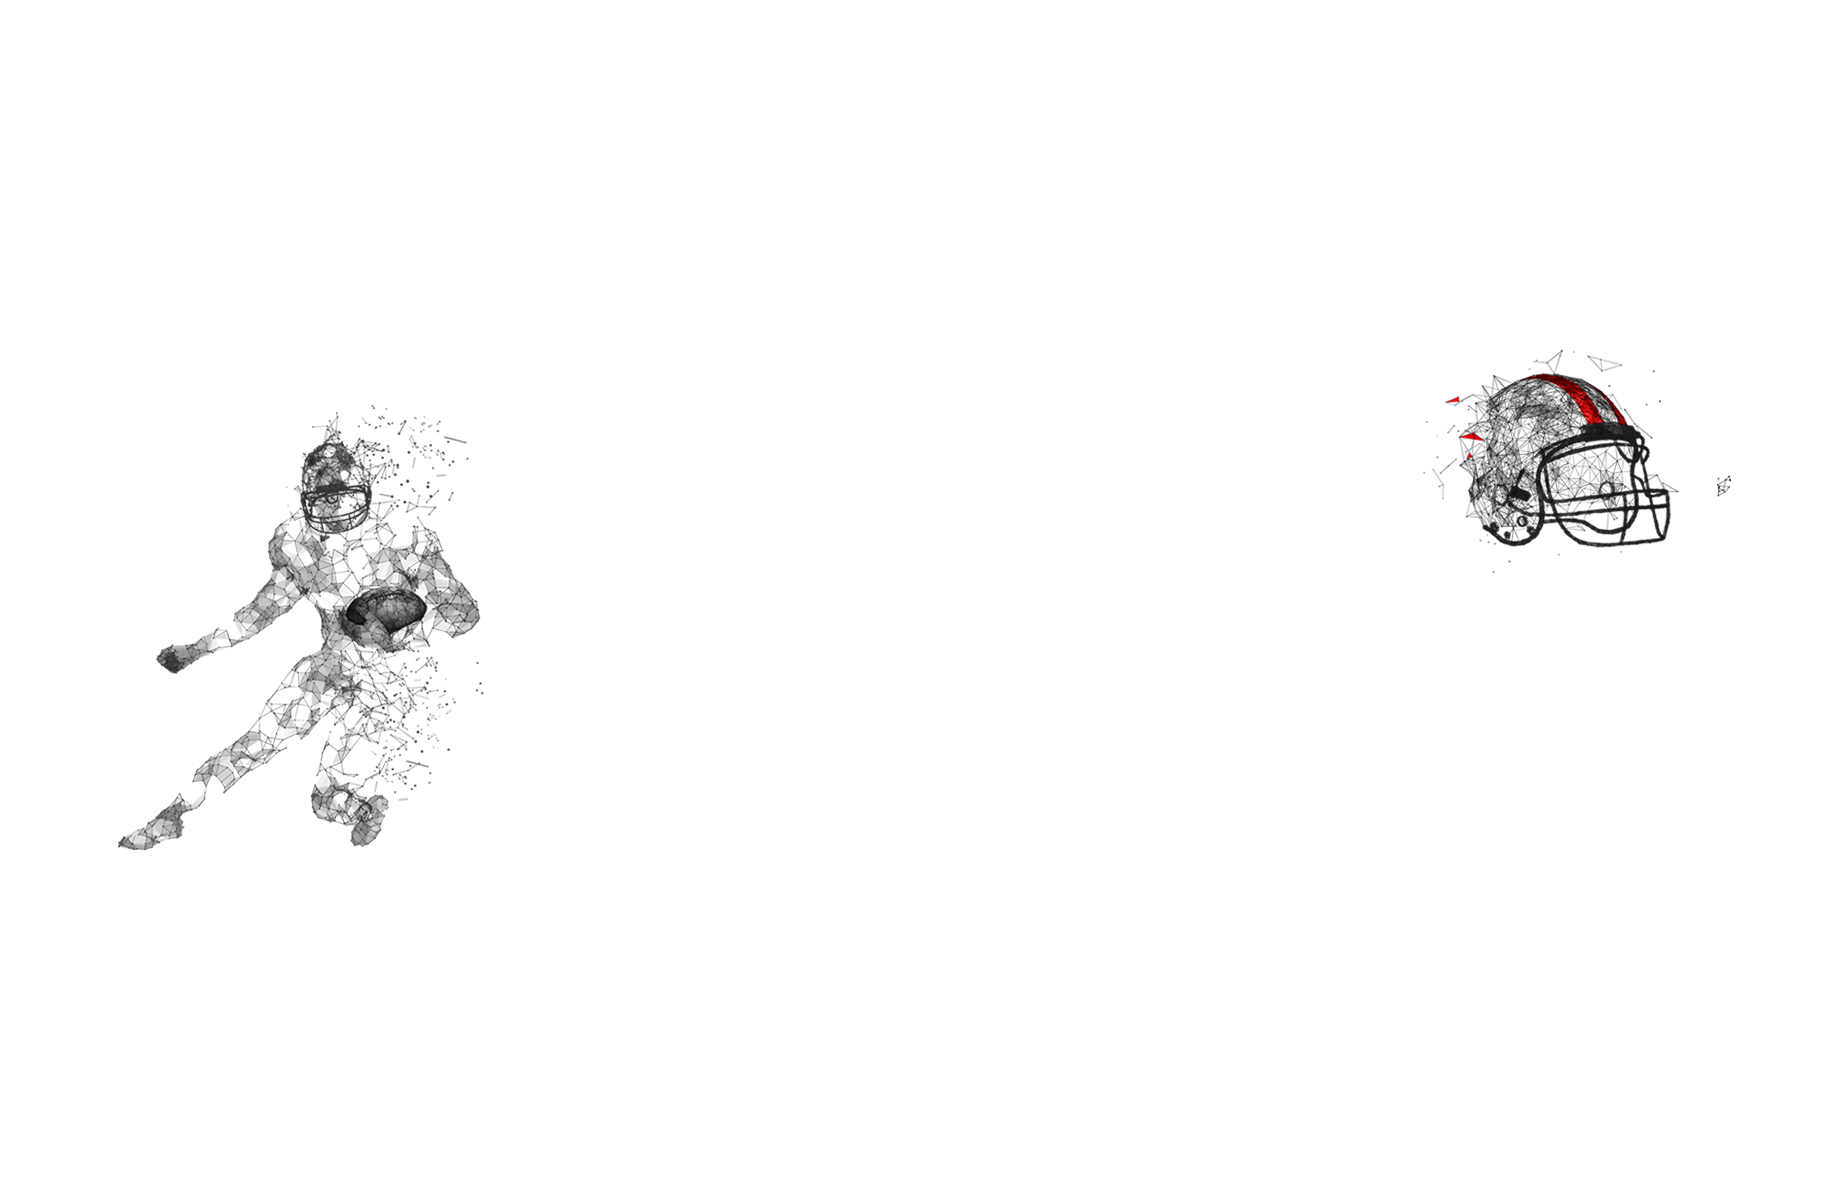
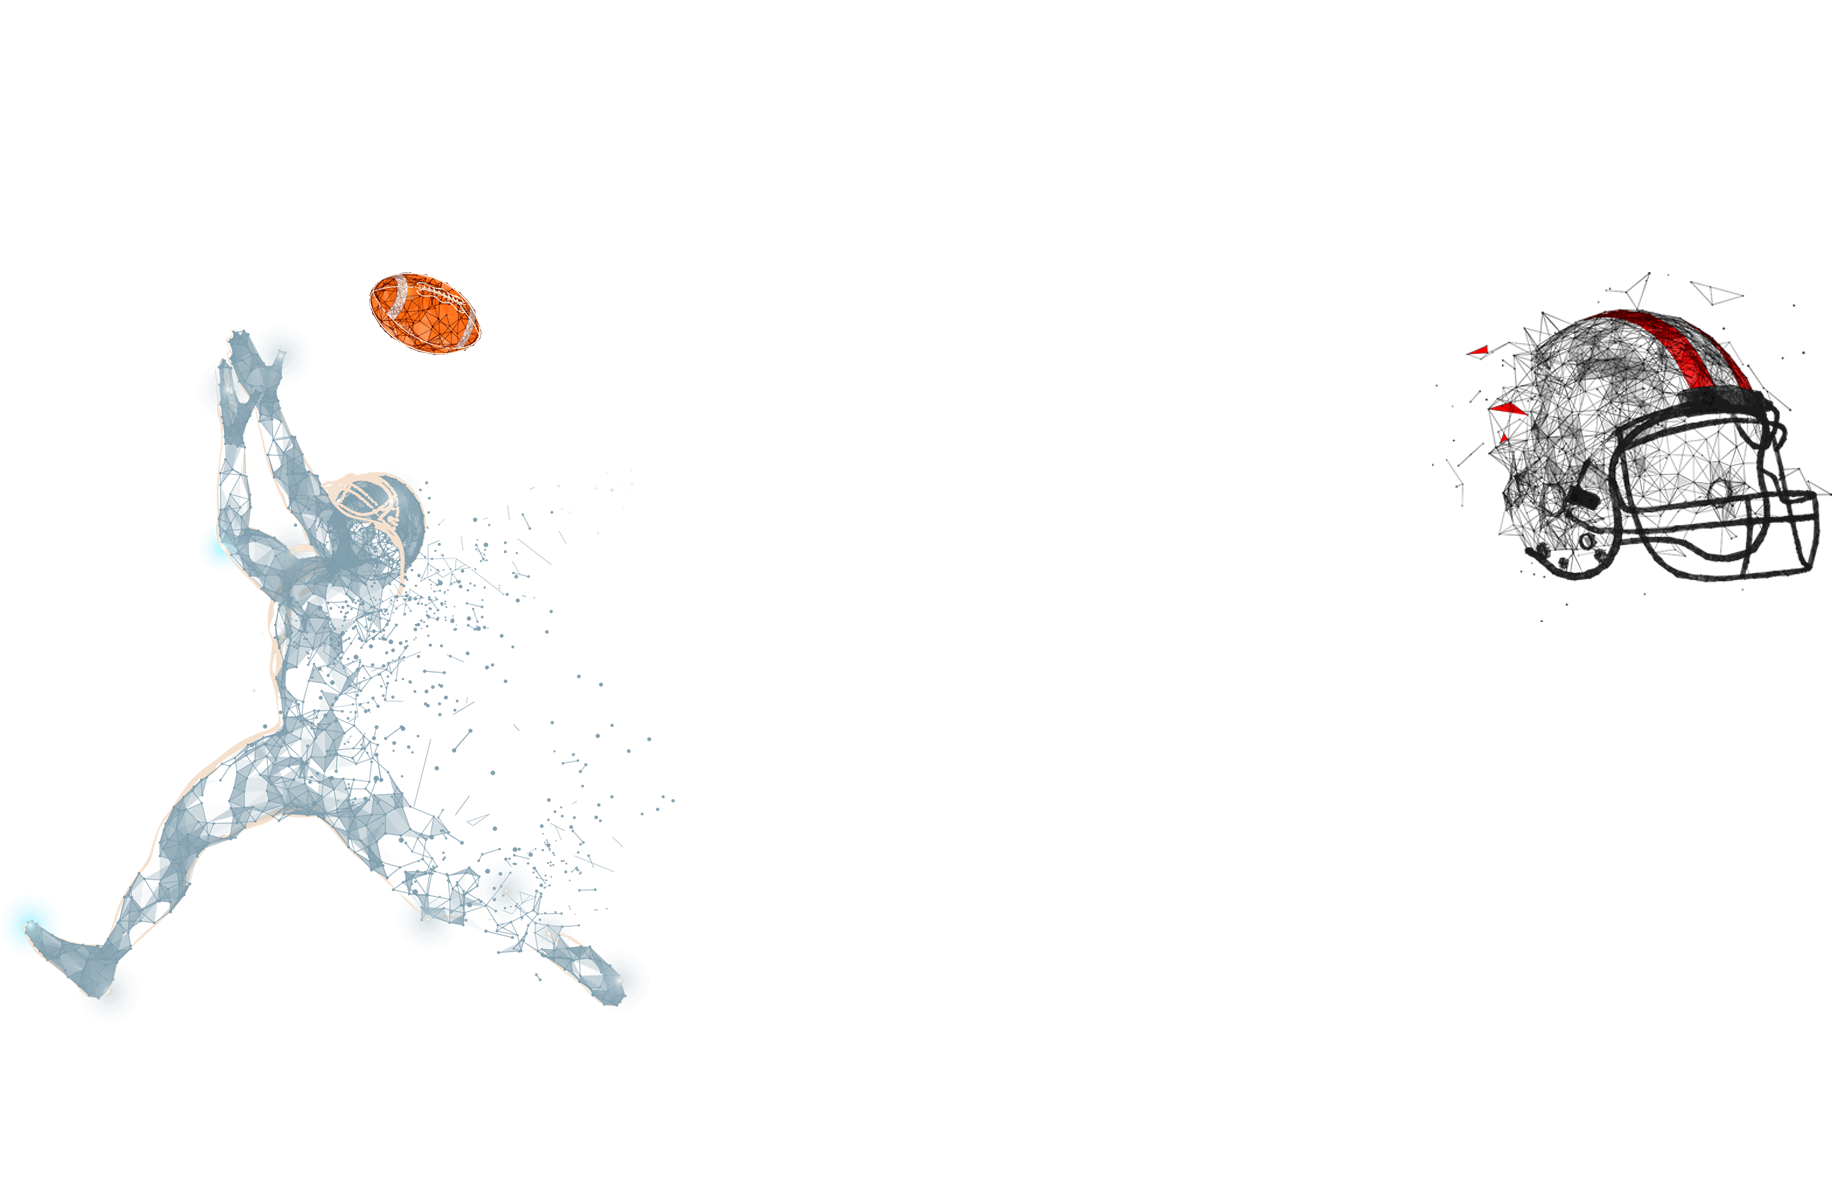
Update BG Images

Changed region(s): [[0.0, 0.2775, 0.3393, 0.8325], [0.7711, 0.2467, 0.987, 0.4933], [0.1851, 0.2158, 0.2776, 0.3083]]

diff --git a/public/styles/light-new.css b/public/styles/light-new.css
@@ -931,7 +931,7 @@ body {
   color: var(--main, #080e25);
   text-rendering: optimizeLegibility;
   /*--body-bg: #f8f8f8 url("https://knuckleheads.netlify.app/images/backgrounds/Hangover.png"), url("https://knuckleheads.netlify.app/images/backgrounds/BG-FB-Field-Light.jpg");*/
-  background-image: url("https://knuckleheads.netlify.app/images/backgrounds/Side-Particles-Light.png"), url("https://knuckleheads.netlify.app/images/backgrounds/White-Hexagon.jpg");
+  background-image: url("https://knuckleheads.netlify.app/images/backgrounds/Side-Particles-Light.png"), url("https://knuckleheads.netlify.app/images/backgrounds/White-Brick.jpg");
   background-attachment: fixed;
   background-position: center top;
   background-repeat: no-repeat no-repeat;
